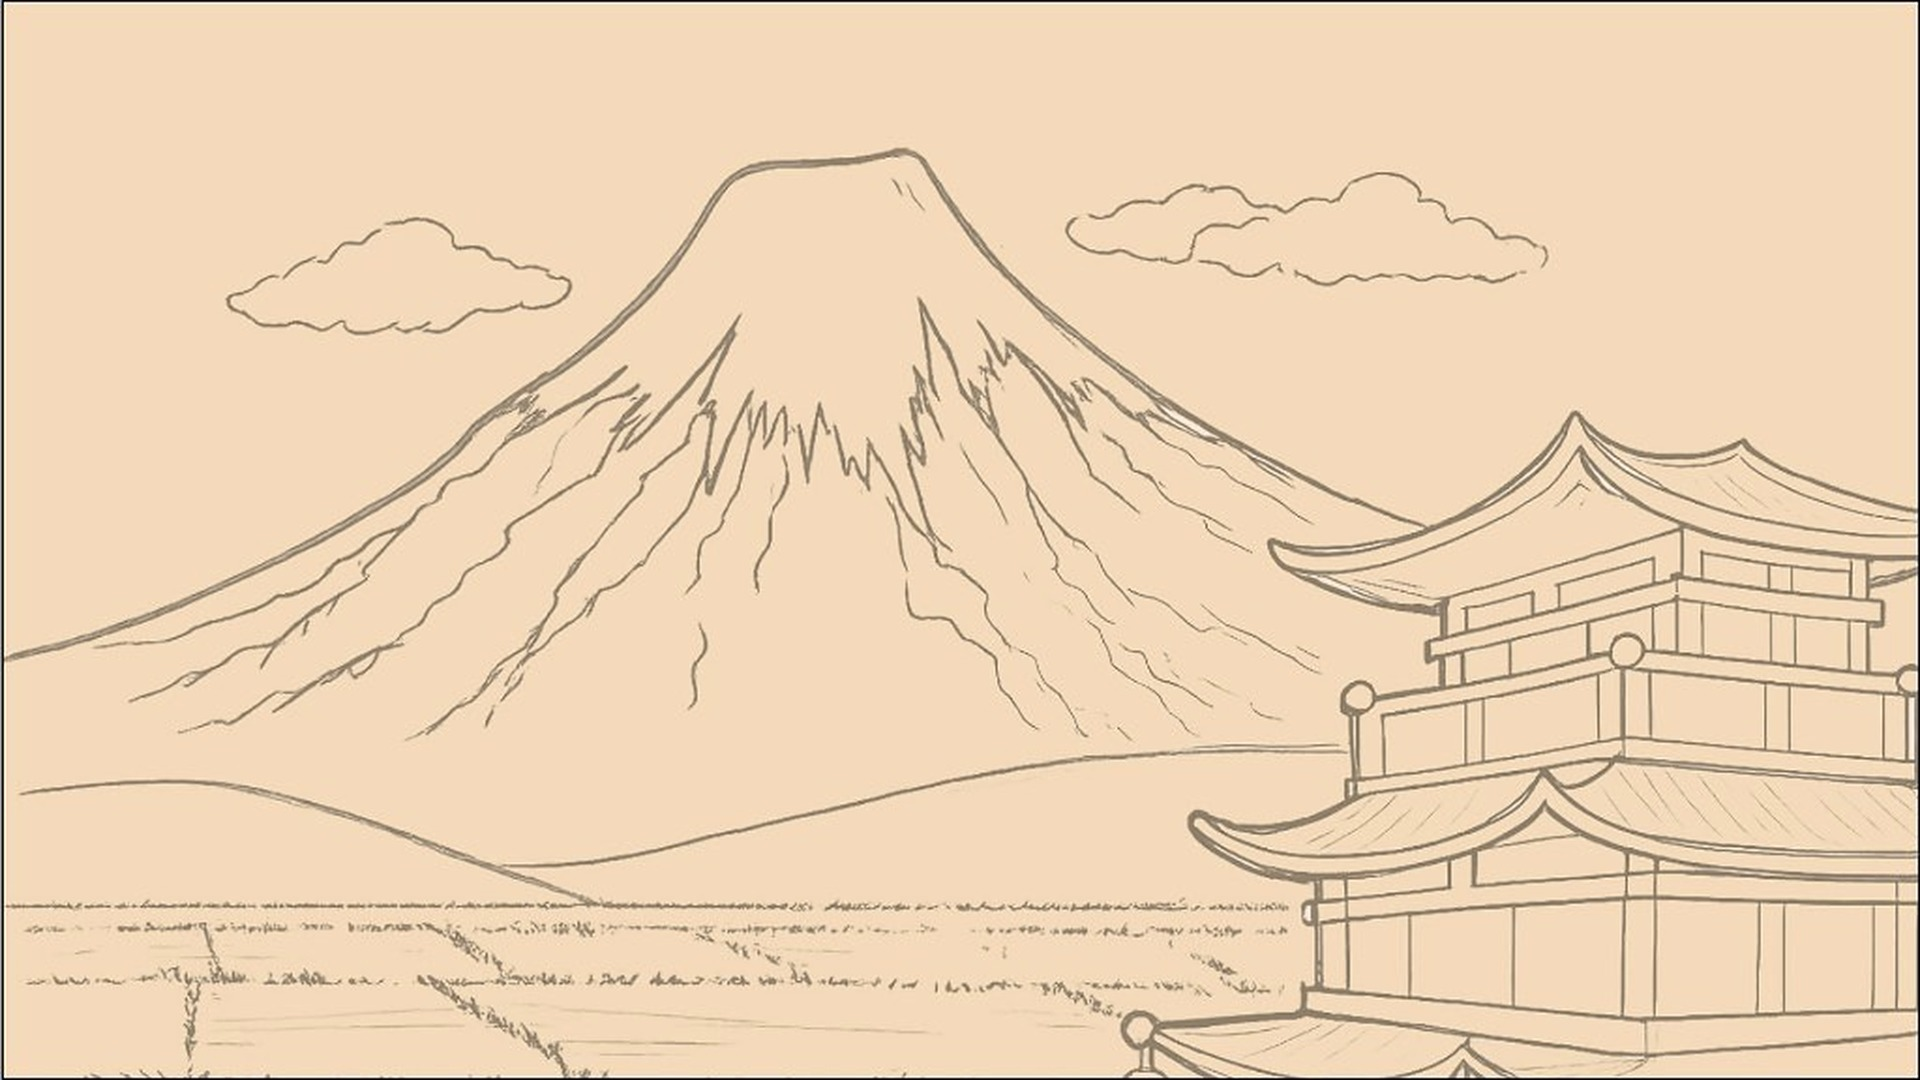
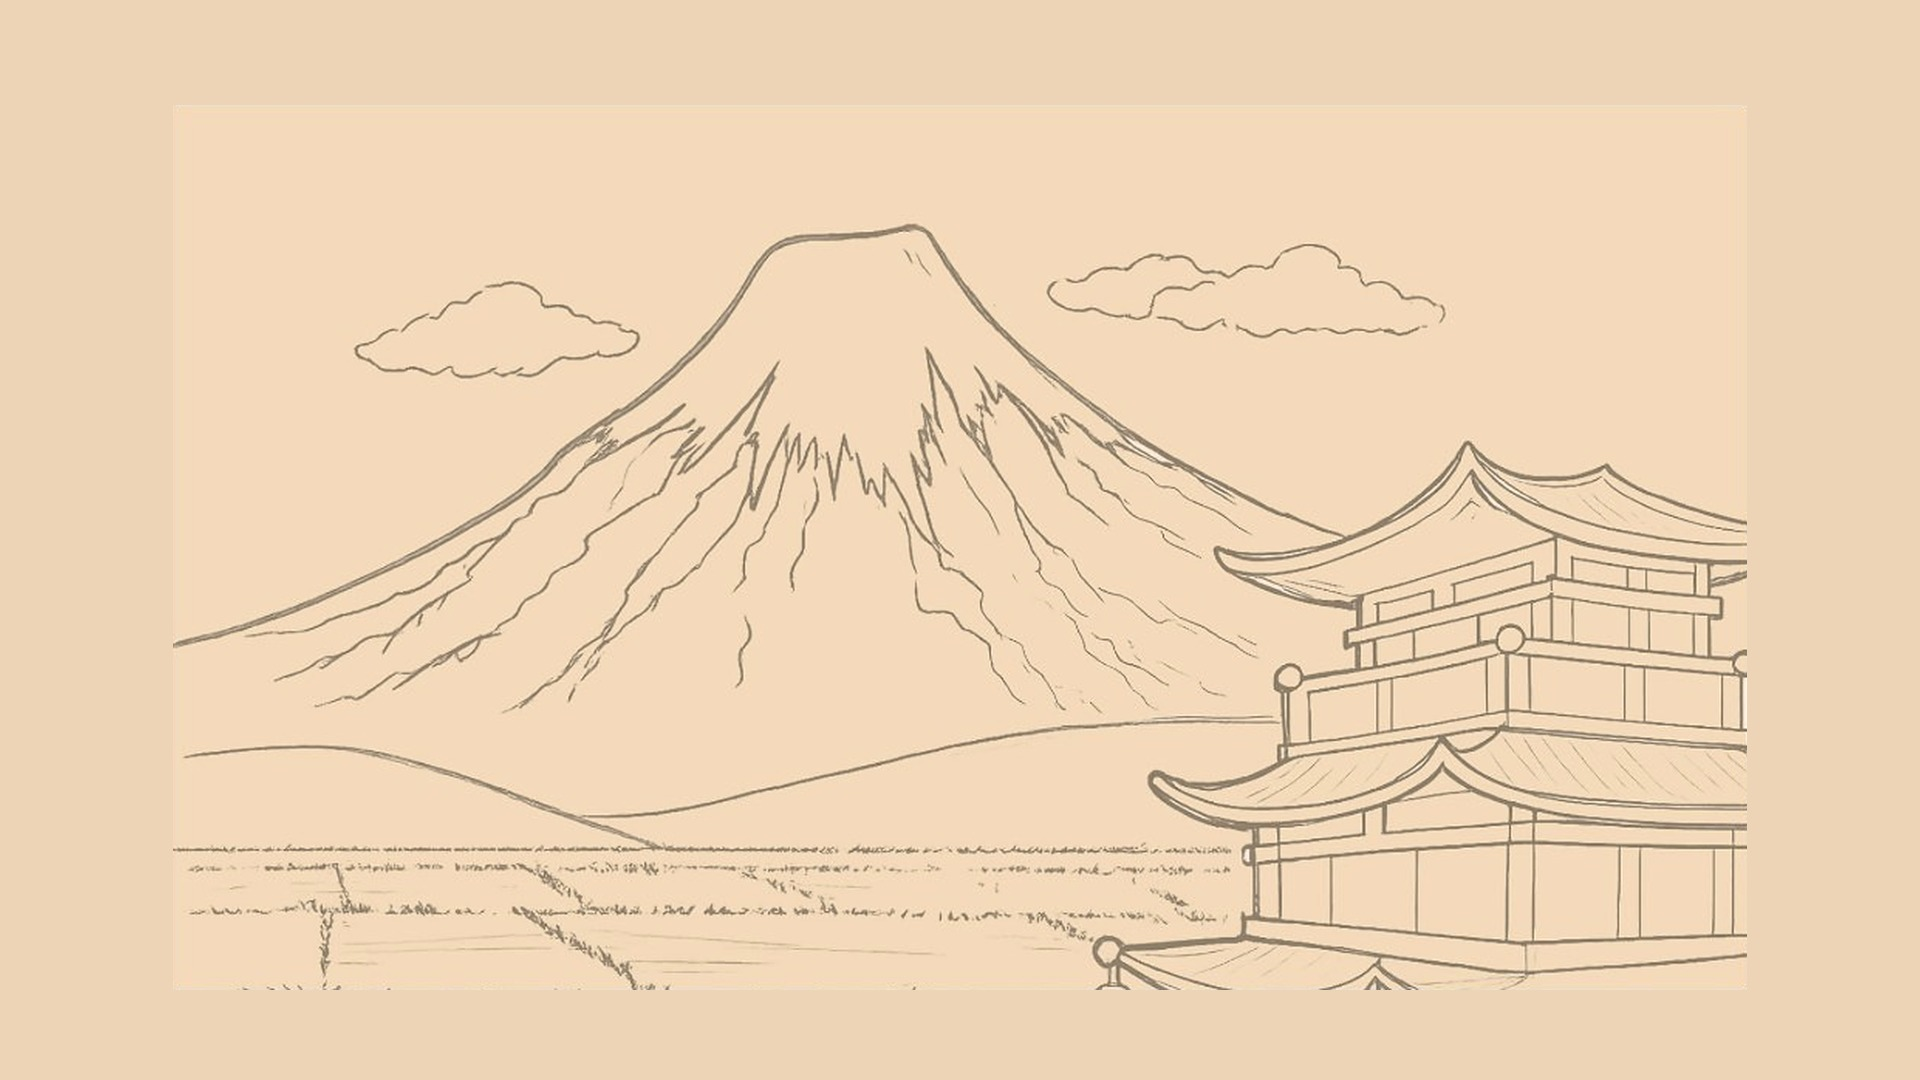
1310

diff --git a/tokyo-japanese-cuisine/tokyo.html b/tokyo-japanese-cuisine/tokyo.html
@@ -827,8 +827,8 @@
           url("image/about-culture-bg-4k.jpg") 2x
         );
       background-repeat: no-repeat;
-      background-position: center bottom;
-      background-size: min(1600px, 88vw) auto;
+      background-position: center center;
+      background-size: cover;
       display: flex !important;
       align-items: center;
       justify-content: center;
